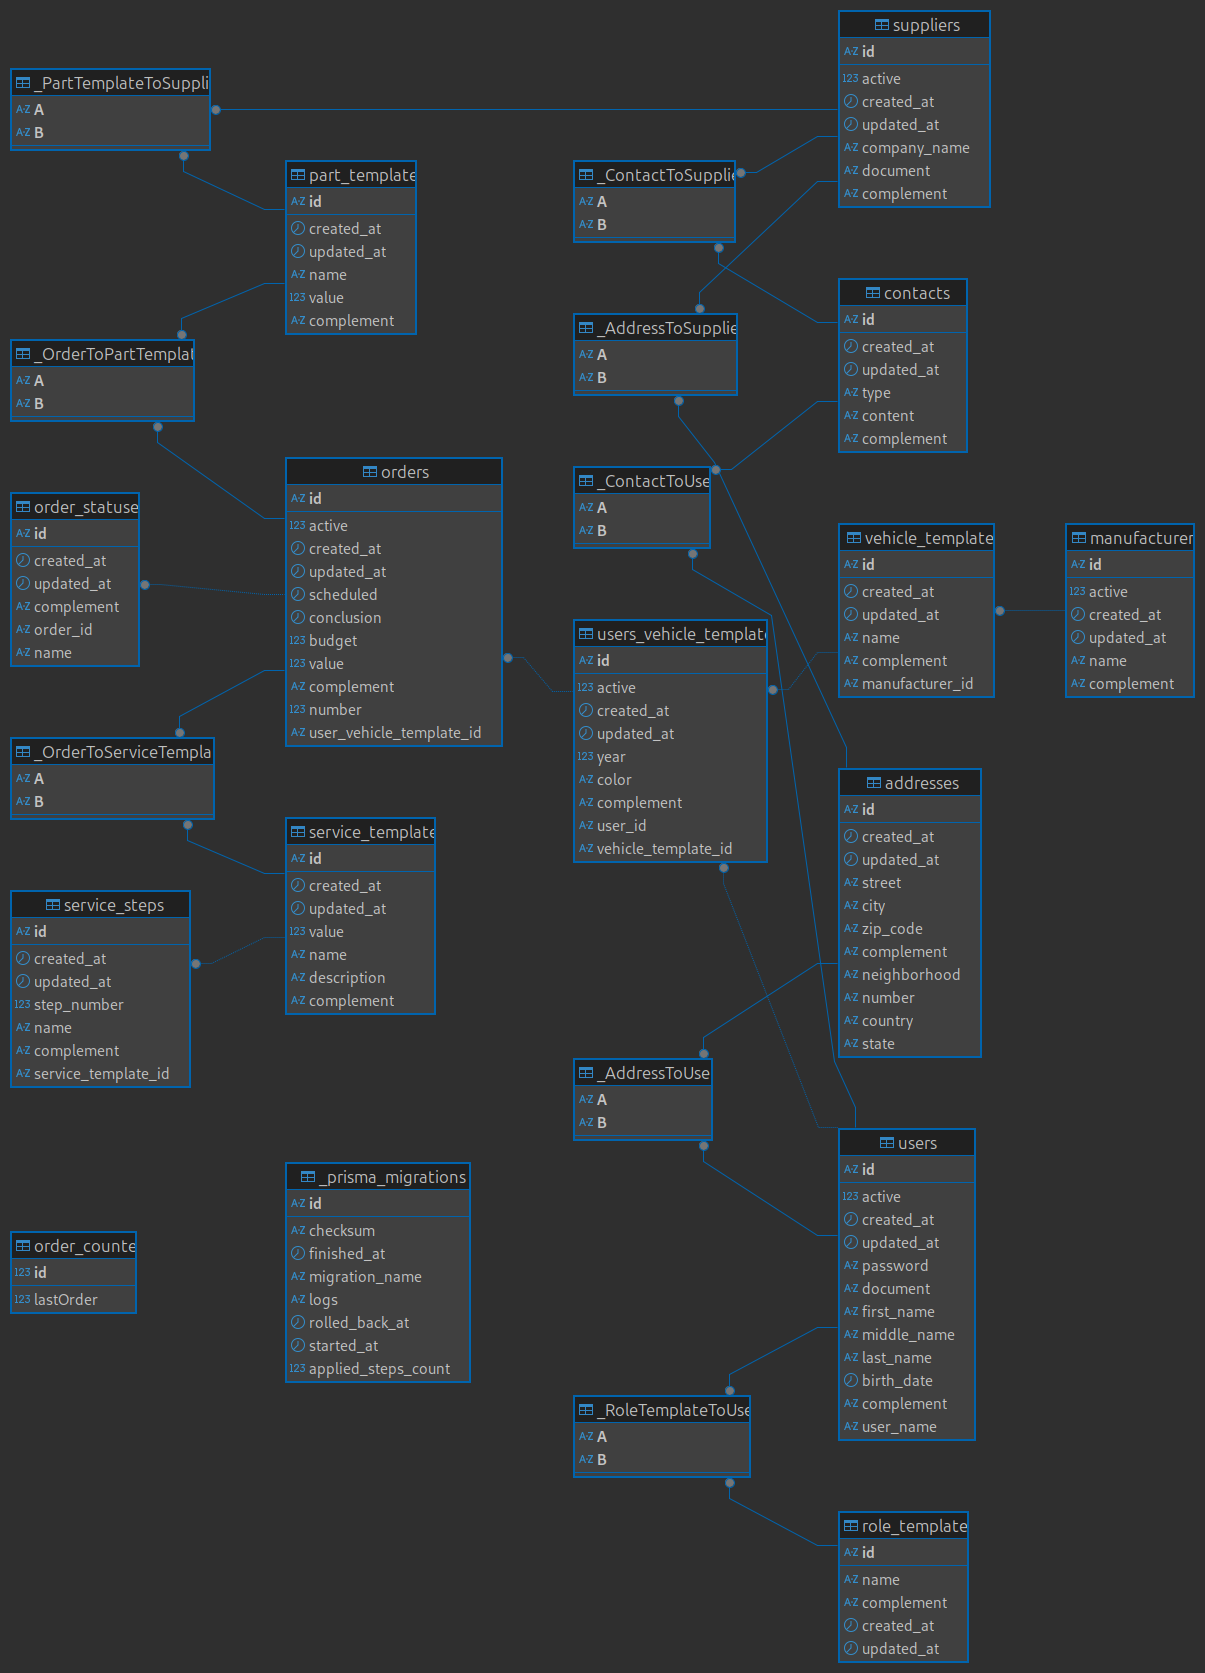
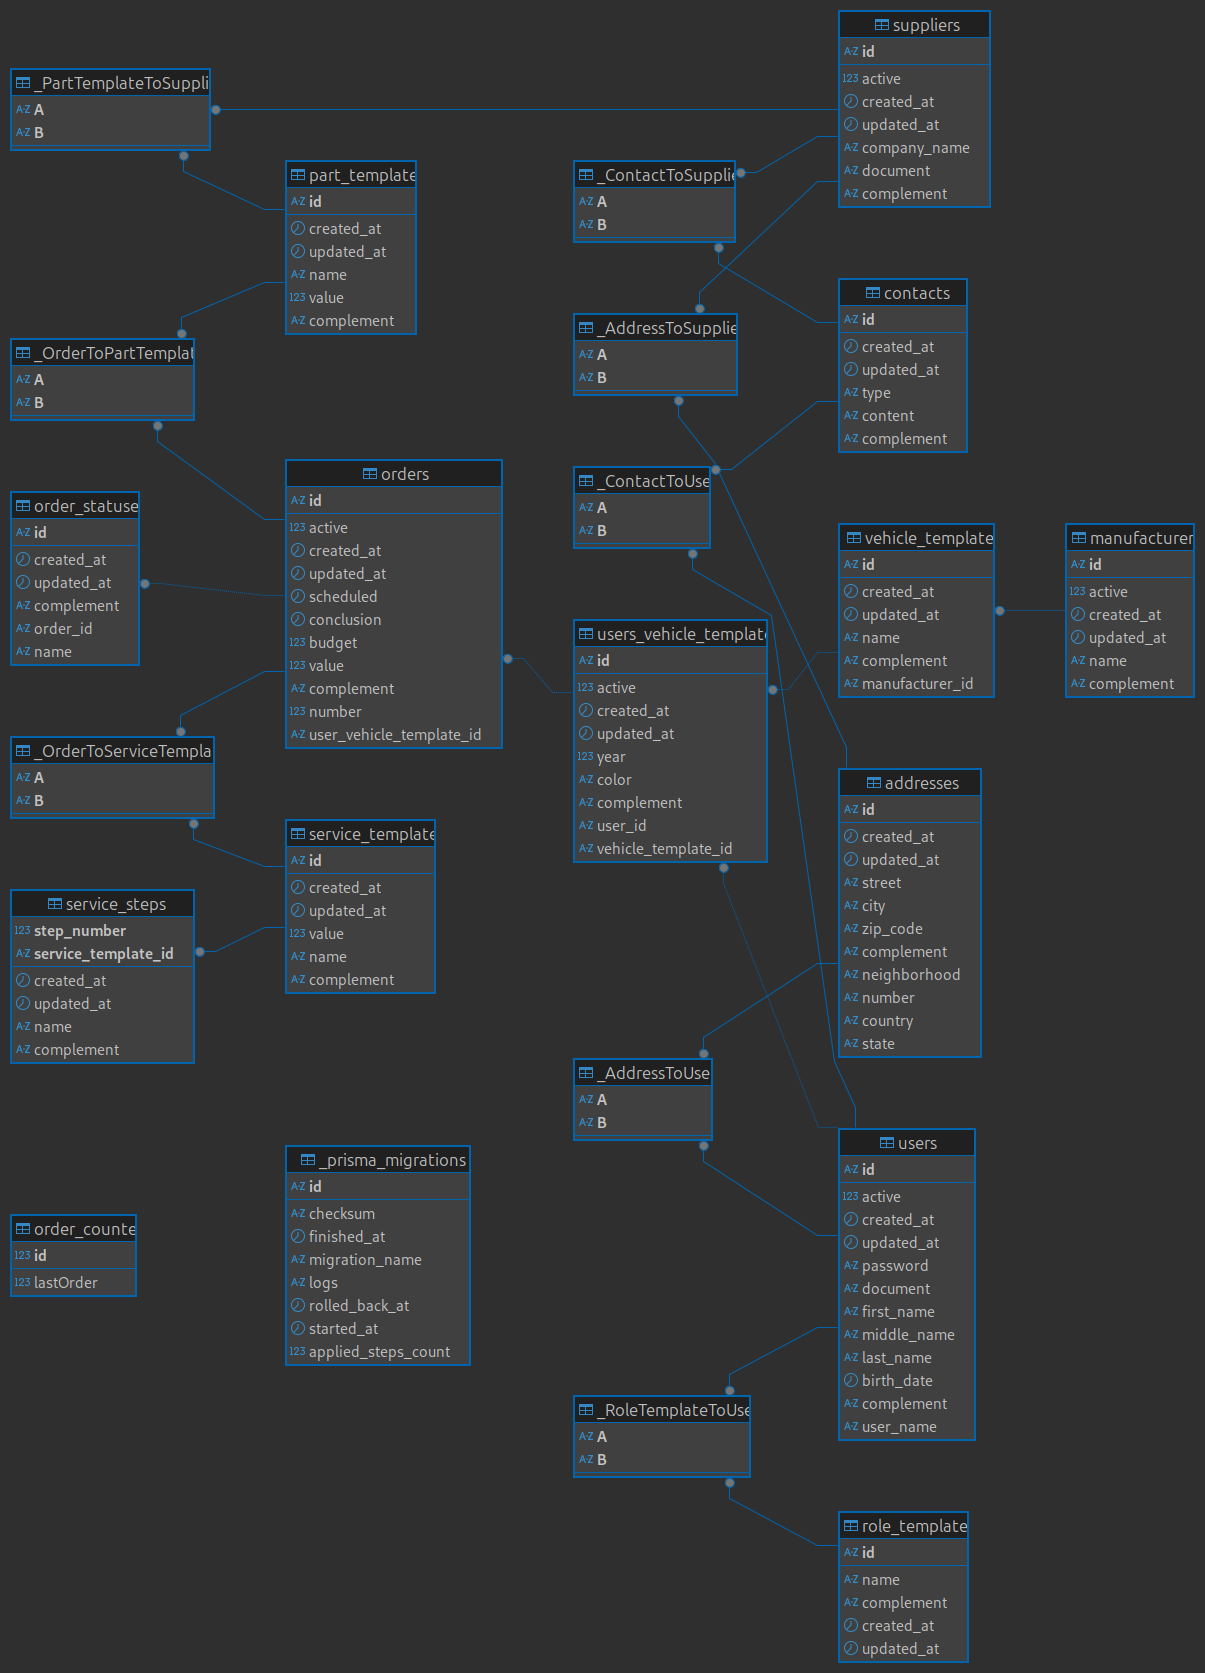
feat: backend: service-template service

diff --git a/backend/src/entities/service-templates/service-templates.service.ts b/backend/src/entities/service-templates/service-templates.service.ts
@@ -1,4 +1,92 @@
 import { Injectable } from '@nestjs/common';
+import { Prisma } from 'generated/client';
+import { PrismaService } from 'src/prisma/prisma.service';
+import { serviceErrorHandler } from 'src/utils/serviceErrors';
+import { Crud, Entity, Subject } from '../crud.enum';
+import { CreateServiceTemplateDto } from './dto/create-service-template.dto';
+import { UpdateServiceTemplateDto } from './dto/update-service-template.dto';
 
 @Injectable()
-export class ServiceTemplatesService {}
+export class ServiceTemplatesService {
+  constructor(private readonly prisma: PrismaService) {}
+
+  async findAll() {
+    try {
+      return this.prisma.serviceTemplate.findMany({
+        include: {
+          steps: true,
+        },
+      });
+    } catch (cause) {
+      serviceErrorHandler(cause, { entity: Entity.TEMPLATE_SERVICE, method: Crud.READ, sub: Subject.ALL });
+    }
+  }
+
+  async findOne(id: string) {
+    try {
+      return this.prisma.serviceTemplate.findUnique({
+        where: { id },
+        include: {
+          steps: true,
+        },
+      });
+    } catch (cause) {
+      serviceErrorHandler(cause, { entity: Entity.TEMPLATE_SERVICE, method: Crud.READ, sub: id });
+    }
+  }
+
+  async create(dto: CreateServiceTemplateDto) {
+    try {
+      const { steps, ...templateData } = dto;
+      return this.prisma.serviceTemplate.create({
+        data: {
+          ...templateData,
+          steps: {
+            create: steps,
+          },
+        },
+        include: {
+          steps: true,
+        },
+      });
+    } catch (cause) {
+      serviceErrorHandler(cause, {
+        entity: Entity.TEMPLATE_SERVICE,
+        method: Crud.CREATE,
+        sub: dto.name || Subject.UNDEFINED,
+        data: dto,
+      });
+    }
+  }
+
+  async update(id: string, dto: UpdateServiceTemplateDto) {
+    try {
+      const { steps, ...templateData } = dto;
+
+      const dataToUpdate: Prisma.ServiceTemplateUpdateInput = { ...templateData };
+
+      return this.prisma.serviceTemplate.update({
+        where: { id },
+        data: {
+          ...dataToUpdate,
+          steps: {
+            set: [],
+            create: steps,
+          },
+        },
+      });
+    } catch (cause) {
+      serviceErrorHandler(cause, { entity: Entity.TEMPLATE_SERVICE, method: Crud.UPDATE, sub: id, data: dto });
+    }
+  }
+
+  async remove(id: string) {
+    try {
+      return this.prisma.serviceTemplate.delete({
+        where: { id },
+      });
+    } catch (cause) {
+      serviceErrorHandler(cause, { entity: Entity.TEMPLATE_SERVICE, method: Crud.DELETE, sub: id });
+    }
+  }
+}

diff --git a/backend/src/entities/service-templates/service-templates.controller.ts b/backend/src/entities/service-templates/service-templates.controller.ts
@@ -1,4 +1,43 @@
-import { Controller } from '@nestjs/common';
+import { Body, Controller, Delete, Get, Param, Post, Put, UseGuards } from '@nestjs/common';
+import { JwtAuthGuard } from 'src/auth/guards/jwt-auth.guard';
+import { RolesGuard } from 'src/auth/guards/roles.guard';
+import { ServiceTemplatesService } from './service-templates.service';
+import { Roles } from 'src/auth/decorators/roles.decorator';
+import { RoleTemplateName } from 'src/auth/roles.enum';
+import { CreateServiceTemplateDto } from './dto/create-service-template.dto';
 
 @Controller('service-templates')
-export class ServiceTemplatesController {}
+@UseGuards(JwtAuthGuard, RolesGuard)
+export class ServiceTemplatesController {
+  constructor(private readonly serviceTemplatesService: ServiceTemplatesService) {}
+
+  @Get()
+  @Roles(RoleTemplateName.ADMIN, RoleTemplateName.MANAGER)
+  findAll() {
+    return this.serviceTemplatesService.findAll();
+  }
+
+  @Get(':id')
+  @Roles(RoleTemplateName.ADMIN, RoleTemplateName.MANAGER)
+  findOne(@Param('id') id: string) {
+    return this.serviceTemplatesService.findOne(id);
+  }
+
+  @Post()
+  @Roles(RoleTemplateName.ADMIN, RoleTemplateName.MANAGER)
+  create(@Body() dto: CreateServiceTemplateDto) {
+    return this.serviceTemplatesService.create(dto);
+  }
+
+  @Put(':id')
+  @Roles(RoleTemplateName.ADMIN, RoleTemplateName.MANAGER)
+  update(@Param('id') id: string, @Body() dto: CreateServiceTemplateDto) {
+    return this.serviceTemplatesService.update(id, dto);
+  }
+
+  @Delete(':id')
+  @Roles(RoleTemplateName.ADMIN)
+  remove(@Param('id') id: string) {
+    return this.serviceTemplatesService.remove(id);
+  }
+}

diff --git a/backend/src/entities/service-templates/dto/create-service-template.dto.ts b/backend/src/entities/service-templates/dto/create-service-template.dto.ts
@@ -1,0 +1,33 @@
+import { Type } from 'class-transformer';
+import {
+  ArrayMaxSize,
+  ArrayMinSize,
+  IsArray,
+  IsNotEmpty,
+  IsNumber,
+  IsOptional,
+  IsString,
+  ValidateNested,
+} from 'class-validator';
+import { CreateServiceStepDto } from 'src/entities/service-steps/dto/create-service-step.dto';
+
+export class CreateServiceTemplateDto {
+  @IsString()
+  @IsNotEmpty()
+  name: string;
+
+  @IsNumber()
+  @IsNotEmpty()
+  value: number;
+
+  @IsString()
+  @IsOptional()
+  complement?: string;
+
+  @IsArray()
+  @ValidateNested({ each: true })
+  @Type(() => CreateServiceStepDto)
+  @ArrayMinSize(3) // Pelo menos três etapas possíveis ("Agendado", "Em andamento", "Concluído")
+  @ArrayMaxSize(30) // Limite arbitrário para evitar excesso de etapas
+  steps: CreateServiceStepDto[];
+}

diff --git a/backend/src/app.module.ts b/backend/src/app.module.ts
@@ -8,7 +8,6 @@ import { PartTemplatesModule } from './entities/part-templates/part-templates.mo
 import { ManufacturersModule } from './entities/manufacturers/manufacturers.module';
 import { VehicleTemplatesModule } from './entities/vehicle-templates/vehicle-templates.module';
 import { ServiceTemplatesModule } from './entities/service-templates/service-templates.module';
-import { ServiceStepsModule } from './entities/service-steps/service-steps.module';
 import { OrdersModule } from './entities/orders/orders.module';
 import { AuthModule } from './auth/auth.module';
 
@@ -21,7 +20,6 @@ import { AuthModule } from './auth/auth.module';
     ManufacturersModule,
     VehicleTemplatesModule,
     ServiceTemplatesModule,
-    ServiceStepsModule,
     OrdersModule,
     AuthModule,
   ],

diff --git a/backend/src/entities/addresses/dto/create-address.dto.ts b/backend/src/entities/addresses/dto/create-address.dto.ts
@@ -1,0 +1,35 @@
+import { IsNotEmpty, IsOptional, IsString } from 'class-validator';
+
+export class CreateAddressDto {
+  @IsString()
+  @IsNotEmpty()
+  street: string;
+
+  @IsString()
+  @IsNotEmpty()
+  number: string;
+
+  @IsString()
+  @IsNotEmpty()
+  neighborhood: string;
+
+  @IsString()
+  @IsNotEmpty()
+  city: string;
+
+  @IsString()
+  @IsNotEmpty()
+  state: string;
+
+  @IsString()
+  @IsNotEmpty()
+  country: string;
+
+  @IsString()
+  @IsNotEmpty()
+  zipCode: string;
+
+  @IsString()
+  @IsOptional()
+  complement?: string;
+}

diff --git a/backend/src/entities/service-templates/service-templates.module.ts b/backend/src/entities/service-templates/service-templates.module.ts
@@ -1,8 +1,10 @@
 import { Module } from '@nestjs/common';
 import { ServiceTemplatesService } from './service-templates.service';
 import { ServiceTemplatesController } from './service-templates.controller';
+import { PrismaModule } from 'src/prisma/prisma.module';
 
 @Module({
+  imports: [PrismaModule],
   providers: [ServiceTemplatesService],
   controllers: [ServiceTemplatesController],
 })

diff --git a/backend/src/entities/contacts/dto/create-contact.dto.ts b/backend/src/entities/contacts/dto/create-contact.dto.ts
@@ -1,0 +1,16 @@
+import { ContactType } from '@prisma/client';
+import { IsEnum, IsNotEmpty, IsOptional, IsString } from 'class-validator';
+
+export class CreateContactDto {
+  @IsEnum(ContactType)
+  @IsNotEmpty()
+  type: ContactType;
+
+  @IsString()
+  @IsNotEmpty()
+  content: string;
+
+  @IsString()
+  @IsOptional()
+  complement?: string;
+}

diff --git a/backend/src/entities/service-steps/dto/create-service-step.dto.ts b/backend/src/entities/service-steps/dto/create-service-step.dto.ts
@@ -1,0 +1,15 @@
+import { IsNotEmpty, IsNumber, IsOptional, IsString } from 'class-validator';
+
+export class CreateServiceStepDto {
+  @IsNumber()
+  @IsNotEmpty()
+  stepNumber: number;
+
+  @IsString()
+  @IsNotEmpty()
+  name: string;
+
+  @IsString()
+  @IsOptional()
+  complement?: string;
+}

diff --git a/backend/src/entities/service-templates/dto/update-service-template.dto.ts b/backend/src/entities/service-templates/dto/update-service-template.dto.ts
@@ -1,0 +1,4 @@
+import { PartialType } from '@nestjs/mapped-types';
+import { CreateServiceTemplateDto } from './create-service-template.dto';
+
+export class UpdateServiceTemplateDto extends PartialType(CreateServiceTemplateDto) {}

diff --git a/backend/src/entities/service-steps/dto/update-service-step.dto.ts b/backend/src/entities/service-steps/dto/update-service-step.dto.ts
@@ -1,0 +1,4 @@
+import { PartialType } from '@nestjs/mapped-types';
+import { CreateServiceStepDto } from './create-service-step.dto';
+
+export class UpdateServiceStepDto extends PartialType(CreateServiceStepDto) {}

diff --git a/backend/src/entities/crud.enum.ts b/backend/src/entities/crud.enum.ts
@@ -13,7 +13,6 @@ export enum Entity {
   TEMPLATE_PART = 'Peças',
   TEMPLATE_VEHICLE = 'Veículos',
   TEMPLATE_SERVICE = 'Serviços',
-  SERVICE_STEPS = 'Etapas de Serviço',
 }
 
 export enum Subject {

diff --git a/backend/src/entities/contacts/dto/update-contact.dto.ts b/backend/src/entities/contacts/dto/update-contact.dto.ts
@@ -1,0 +1,4 @@
+import { PartialType } from '@nestjs/mapped-types';
+import { CreateContactDto } from './create-contact.dto';
+
+export class UpdateContactDtos extends PartialType(CreateContactDto) {}
